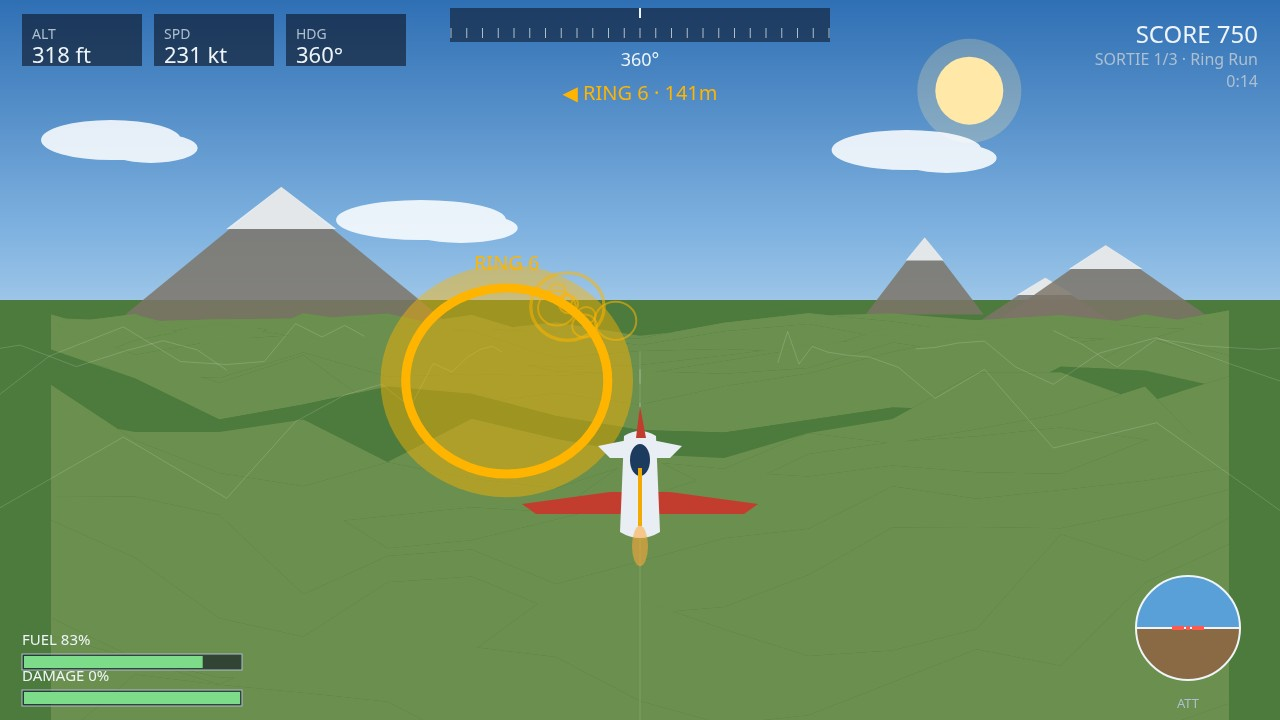
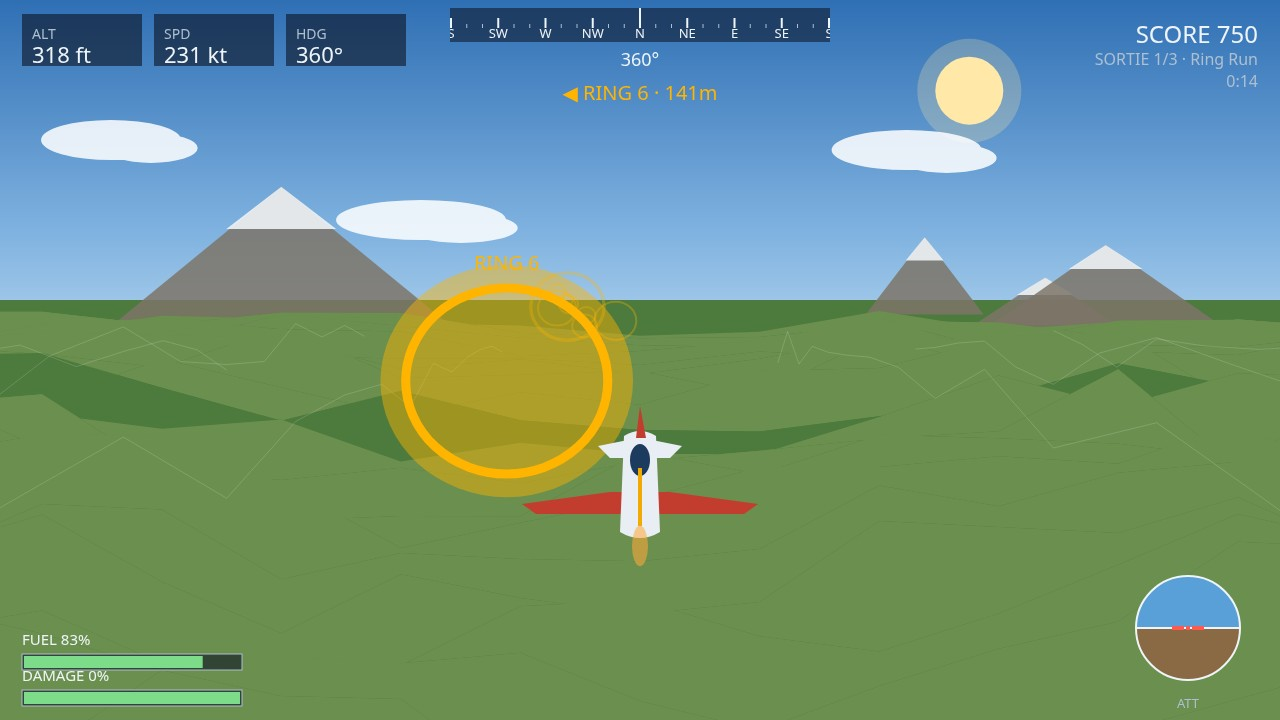
Round 2 polish: runway visible in cover shot, ground filled, compass fixed
- drawRunway now clamps to near plane instead of skipping when a corner
  is behind the camera: runway runs from under the plane to the horizon
- terrain strips widened (0.95 -> 1.35): no dark side bars in play shot
- grid line at gx=0 skipped: no vertical line through the plane
- far rings faded (0.55 -> 0.32), sub-4px far rings hidden
- compass ticks rounded to whole degrees before 45-degree labels;
  ticks above, letters below, no more strikethrough
- ring labels move below the ring when high, clear of the compass strip

diff --git a/game/src/render.js b/game/src/render.js
@@ -131,6 +131,22 @@ export function createRenderer(canvas) {
           fwd,
         };
       },
+      // Same projection, but points behind the camera are clamped onto the
+      // near plane instead of dropped: used for the runway strip, which the
+      // camera can straddle at takeoff, so the strip still reads instead of
+      // vanishing the moment its near end passes behind the camera.
+      projectClamped(px, py, pz) {
+        const dx = px - cam.x;
+        const dy = py - cam.y;
+        const dz = pz - cam.z;
+        const fwd = Math.max(dx * sinH + dz * cosH, 6);
+        const lat = dx * cosH - dz * sinH;
+        return {
+          x: CX + (lat / fwd) * FOCAL,
+          y: horizonY - (dy / fwd) * FOCAL,
+          fwd,
+        };
+      },
     };
   }
 
@@ -147,8 +163,10 @@ export function createRenderer(canvas) {
     for (let r = rows.length - 1; r >= 0; r--) {
       const d0 = rows[r];
       const d1 = r + 1 < rows.length ? rows[r + 1] : d0 * 1.17;
-      const spread0 = d0 * 0.95;
-      const spread1 = d1 * 0.95;
+      // Wide enough that the far rows still span the frame: at 0.95 the
+      // strips stopped short of the screen edges and left dark bands.
+      const spread0 = d0 * 1.35;
+      const spread1 = d1 * 1.35;
       const pts0 = [];
       const pts1 = [];
       let centreH = 0;
@@ -181,7 +199,10 @@ export function createRenderer(canvas) {
     // Ground grid: a few fixed world-x lines running ahead, faint white.
     context.strokeStyle = PALETTE.grid;
     context.lineWidth = 1;
+    // No line on the flight path itself: gx=0 ran straight through the
+    // plane and read as a string tied to its nose.
     for (let gx = -600; gx <= 600; gx += 200) {
+      if (gx === 0) continue;
       context.beginPath();
       let started = false;
       for (let z = 0; z <= 900; z += 60) {
@@ -232,13 +253,24 @@ export function createRenderer(canvas) {
   function drawRunway(world, projector) {
     const r = world.runway;
     const half = r.width / 2;
-    const corners = [
+    // If the whole strip is behind the camera there is nothing to draw;
+    // otherwise clamp the near corners onto the near plane instead of
+    // dropping the strip — at takeoff the plane is already past the
+    // threshold, and the old all-or-nothing check made the runway vanish
+    // from the cover shot entirely.
+    const ahead = [
       projector.project(r.x - half, r.elevation + 0.3, r.z - r.length / 2),
       projector.project(r.x + half, r.elevation + 0.3, r.z - r.length / 2),
       projector.project(r.x + half, r.elevation + 0.3, r.z + r.length / 2),
       projector.project(r.x - half, r.elevation + 0.3, r.z + r.length / 2),
     ];
-    if (corners.some((c) => c === null)) return;
+    if (ahead.every((c) => c === null)) return;
+    const corners = [
+      projector.projectClamped(r.x - half, r.elevation + 0.3, r.z - r.length / 2),
+      projector.projectClamped(r.x + half, r.elevation + 0.3, r.z - r.length / 2),
+      projector.projectClamped(r.x + half, r.elevation + 0.3, r.z + r.length / 2),
+      projector.projectClamped(r.x - half, r.elevation + 0.3, r.z + r.length / 2),
+    ];
     context.fillStyle = PALETTE.runway;
     context.beginPath();
     context.moveTo(corners[0].x, corners[0].y);
@@ -252,9 +284,8 @@ export function createRenderer(canvas) {
     context.strokeStyle = PALETTE.runwayLine;
     context.lineWidth = 2;
     for (let s = -r.length / 2 + 20; s < r.length / 2 - 10; s += 40) {
-      const a = projector.project(r.x, r.elevation + 0.5, r.z + s);
-      const b = projector.project(r.x, r.elevation + 0.5, r.z + s + 20);
-      if (!a || !b) continue;
+      const a = projector.projectClamped(r.x, r.elevation + 0.5, r.z + s);
+      const b = projector.projectClamped(r.x, r.elevation + 0.5, r.z + s + 20);
       context.beginPath();
       context.moveTo(a.x, a.y);
       context.lineTo(b.x, b.y);
@@ -268,7 +299,7 @@ export function createRenderer(canvas) {
       const p = projector.project(ring.x, ring.y, ring.z);
       if (!p) continue;
       const rx = (ring.radius / p.fwd) * FOCAL;
-      if (rx < 2) continue;
+      if (rx < 4) continue;
       const isNext = nextRing && ring.index === nextRing.index;
       context.lineWidth = Math.max(2, rx * 0.09);
       if (ring.passed) {
@@ -280,13 +311,17 @@ export function createRenderer(canvas) {
         context.ellipse(p.x, p.y, rx * 1.25, rx * 1.15, 0, 0, Math.PI * 2);
         context.fill();
       } else {
-        context.strokeStyle = 'rgba(255,180,0,0.55)';
+        context.strokeStyle = 'rgba(255,180,0,0.32)';
       }
       context.beginPath();
       context.ellipse(p.x, p.y, rx, rx * 0.92, 0, 0, Math.PI * 2);
       context.stroke();
       if (isNext) {
-        text(`RING ${ring.index + 1}`, p.x, p.y - rx - 10, 20, PALETTE.ring, 'center');
+        // Keep the label clear of the compass and instrument band at the
+        // top: when the ring rides high, label it from below instead.
+        const labelY = p.y - rx - 10;
+        if (labelY < 100) text(`RING ${ring.index + 1}`, p.x, p.y + rx + 30, 20, PALETTE.ring, 'center');
+        else text(`RING ${ring.index + 1}`, p.x, labelY, 20, PALETTE.ring, 'center');
       }
     }
   }
@@ -367,14 +402,20 @@ export function createRenderer(canvas) {
       const a = deg + off;
       const norm = ((a % 360) + 360) % 360;
       const x = CX + off * 1.05;
-      const major = norm % 45 === 0;
+      // Round before the modulo: with a fractional heading the exact
+      // equality almost never hit, so the letters only appeared when the
+      // heading was exactly a multiple of 15 degrees.
+      const major = Math.round(norm) % 45 === 0;
       context.strokeStyle = major ? PALETTE.hud : PALETTE.hudDim;
       context.lineWidth = major ? 2 : 1;
+      // Ticks live in the top half of the strip, labels in the bottom
+      // half: the old ticks ran through the label row and the letters
+      // read as a jumble with a line struck through each one.
       context.beginPath();
-      context.moveTo(x, y + 12);
-      context.lineTo(x, y + (major ? -4 : 2));
+      context.moveTo(x, y + 2);
+      context.lineTo(x, y + (major ? -8 : -2));
       context.stroke();
-      if (major) text(compassLabel(norm), x, y + 2, 13, PALETTE.hud, 'center', 'top');
+      if (major) text(compassLabel(Math.round(norm)), x, y + 2, 13, PALETTE.hud, 'center', 'top');
     }
     context.restore();
     context.strokeStyle = PALETTE.hud;
